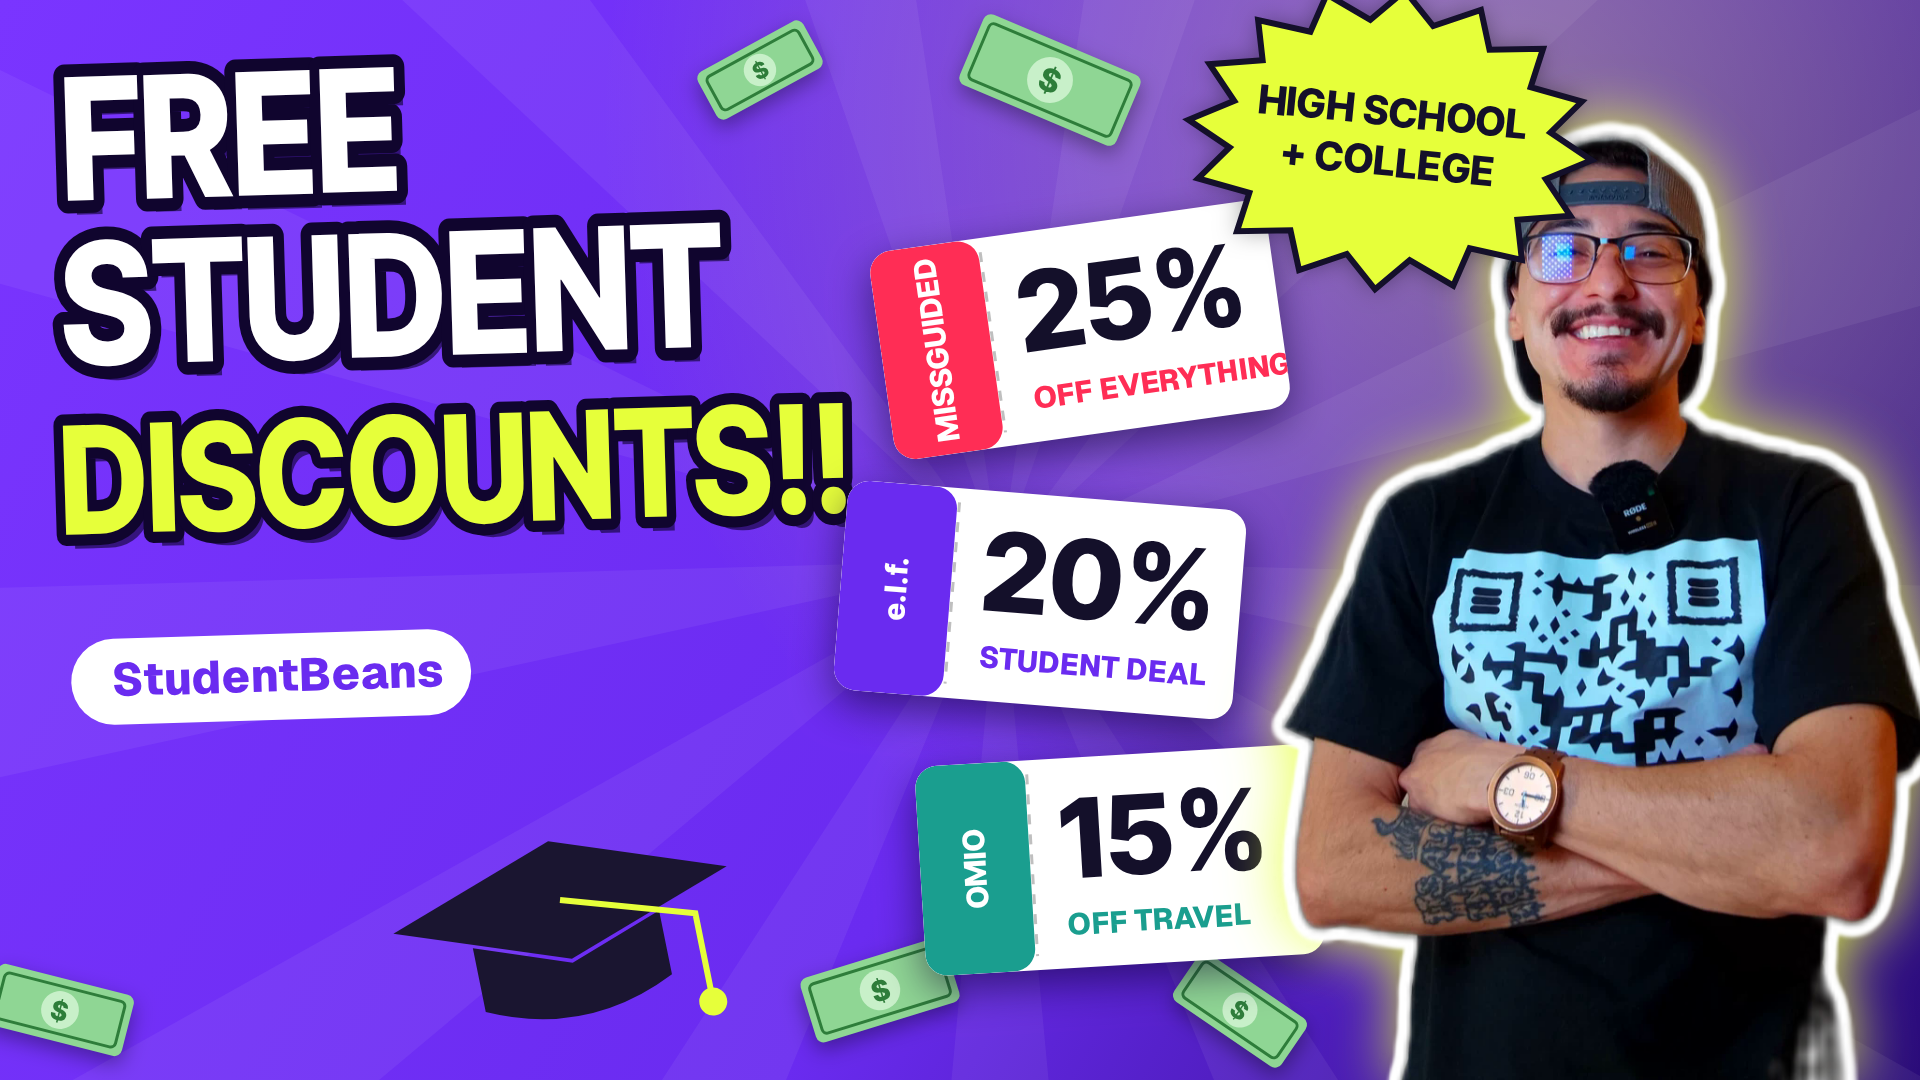
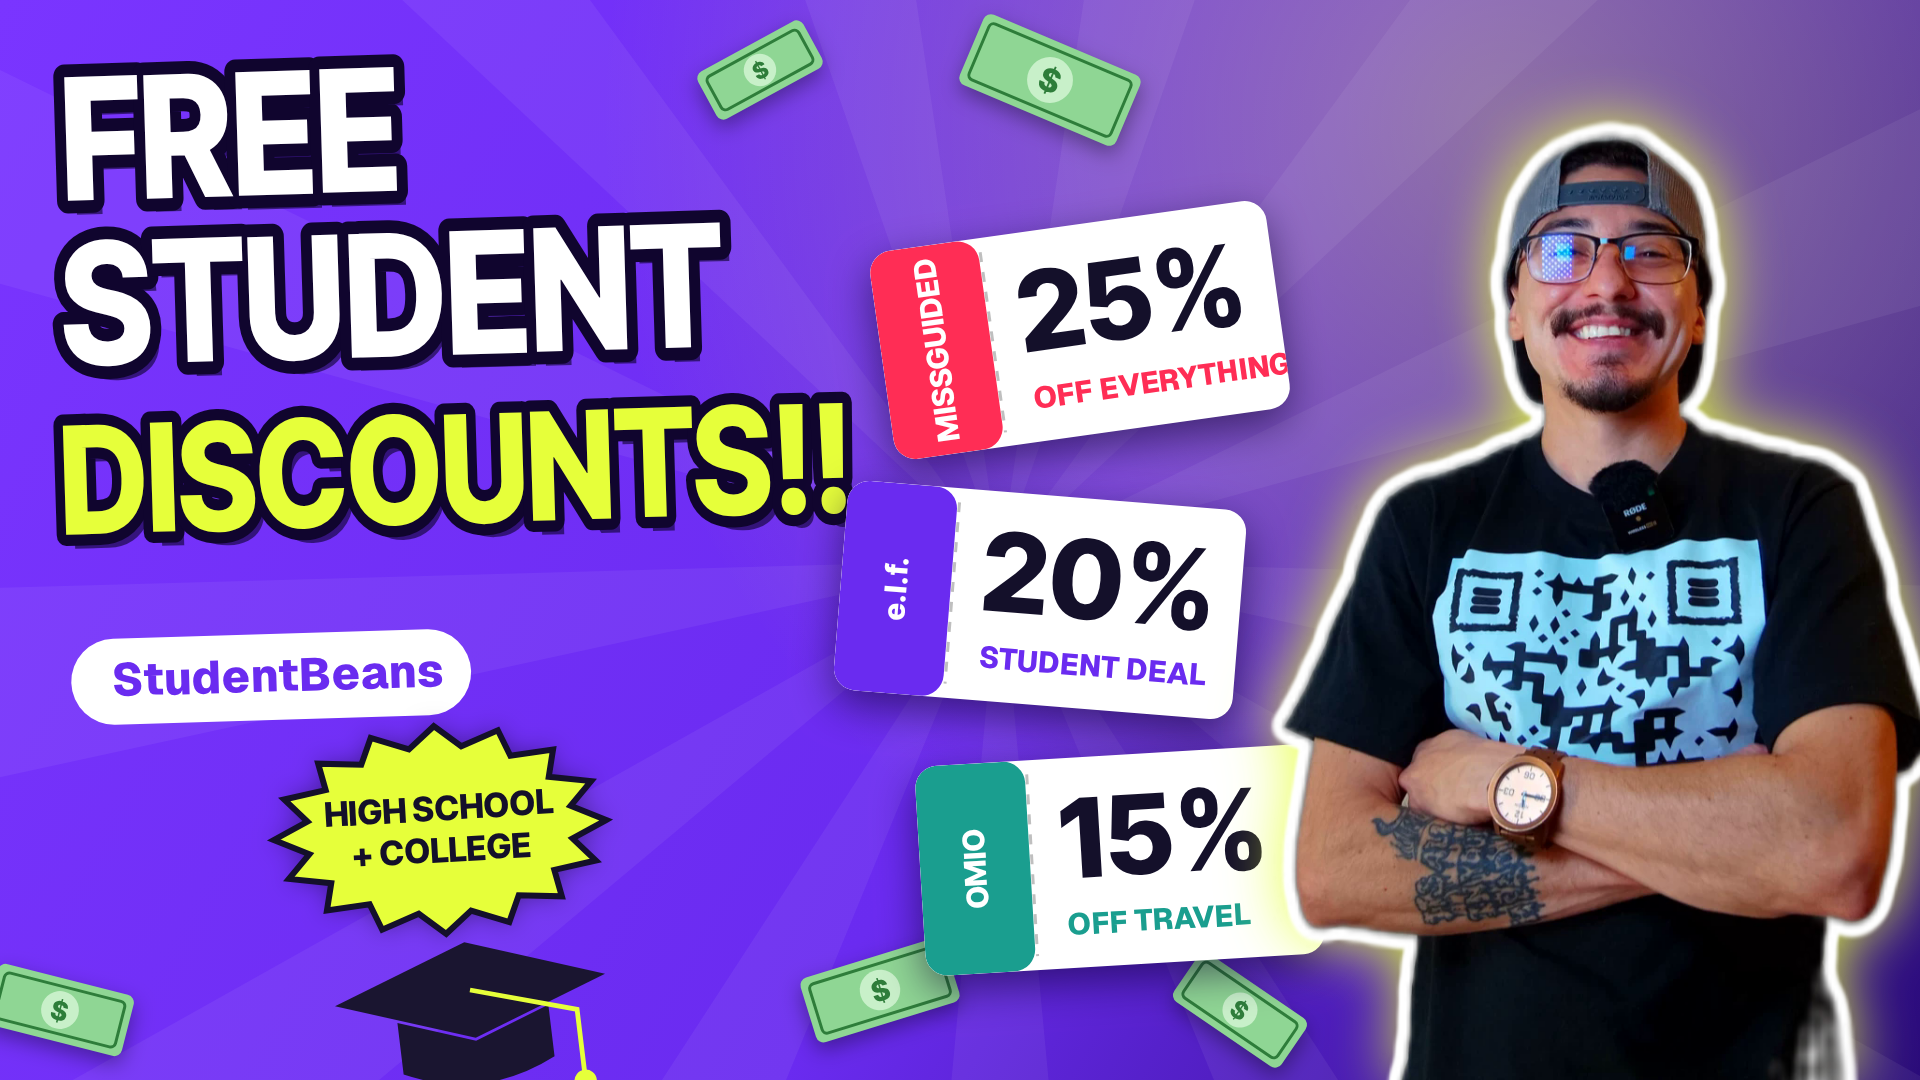
Student Beans thumbnail: High School + College badge above the grad cap
Claude-Session: https://claude.ai/code/session_01NSJvdmHsHoazKiuuGVQfMY

Changed region(s): [[0.125, 0.6722, 0.375, 1.0], [0.625, 0.0, 0.8438, 0.275]]

diff --git a/story/beans_thumb.html b/story/beans_thumb.html
@@ -45,7 +45,7 @@
   coupon(1040, 600, 0.08, '20%', 'STUDENT DEAL', 'e.l.f.', PUR);
   coupon(1120, 860, -0.06, '15%', 'OFF TRAVEL', 'OMIO', '#1A9E8F');
   // ---- grad cap
-  c.save(); c.translate(560, 900); c.rotate(-0.2); c.fillStyle = '#1A1530'; c.beginPath(); c.moveTo(0, -60); c.lineTo(170, 0); c.lineTo(0, 60); c.lineTo(-170, 0); c.closePath(); c.fill();
+  c.save(); c.translate(470, 990); c.rotate(-0.12); c.scale(0.8, 0.8); c.fillStyle = '#1A1530'; c.beginPath(); c.moveTo(0, -60); c.lineTo(170, 0); c.lineTo(0, 60); c.lineTo(-170, 0); c.closePath(); c.fill();
   c.beginPath(); c.moveTo(-95, 30); c.lineTo(-95, 95); c.quadraticCurveTo(0, 140, 95, 95); c.lineTo(95, 30); c.lineTo(0, 64); c.closePath(); c.fill(); c.strokeStyle = LIME; c.lineWidth = 6; c.beginPath(); c.moveTo(0, 0); c.lineTo(130, 40); c.lineTo(130, 120); c.stroke(); c.beginPath(); c.arc(130, 130, 14, 0, TAU); c.fillStyle = LIME; c.fill(); c.restore();
   // ---- creator cutout + lime outline
   const ph = 1020, pw = ph * me.width / me.height, px = W - pw + 30, py = H - ph + 60;
@@ -54,8 +54,8 @@
   o.globalCompositeOperation = 'source-in'; o.fillStyle = '#fff'; o.fillRect(0, 0, W, H);
   c.save(); c.shadowColor = 'rgba(230,255,58,0.9)'; c.shadowBlur = 60; c.drawImage(off, 0, 0); c.restore(); c.drawImage(me, px, py, pw, ph);
   // ---- "HIGH SCHOOL + COLLEGE" burst
-  c.save(); c.translate(1390, 140); c.rotate(0.1); c.beginPath(); for (let i = 0; i < 32; i++) { const a = i / 32 * TAU, r = i % 2 ? 120 : 150; c.lineTo(Math.cos(a) * r * 1.35, Math.sin(a) * r); } c.closePath(); c.fillStyle = LIME; c.shadowColor = 'rgba(0,0,0,0.4)'; c.shadowBlur = 24; c.fill(); c.shadowColor = 'transparent'; c.lineWidth = 6; c.strokeStyle = INK; c.stroke();
-  c.font = D(40); c.fillStyle = INK; c.textAlign = 'center'; c.textBaseline = 'middle'; c.fillText('HIGH SCHOOL', 0, -26); c.fillText('+ COLLEGE', 0, 24); c.restore();
+  c.save(); c.translate(440, 830); c.rotate(-0.06); c.beginPath(); for (let i = 0; i < 32; i++) { const a = i / 32 * TAU, r = i % 2 ? 84 : 104; c.lineTo(Math.cos(a) * r * 1.6, Math.sin(a) * r); } c.closePath(); c.fillStyle = LIME; c.shadowColor = 'rgba(0,0,0,0.4)'; c.shadowBlur = 24; c.fill(); c.shadowColor = 'transparent'; c.lineWidth = 6; c.strokeStyle = INK; c.stroke();
+  c.font = D(34); c.fillStyle = INK; c.textAlign = 'center'; c.textBaseline = 'middle'; c.fillText('HIGH SCHOOL', 0, -20); c.fillText('+ COLLEGE', 0, 22); c.restore();
   document.body.dataset.ready = '1';
 })();
 </script></body></html>
